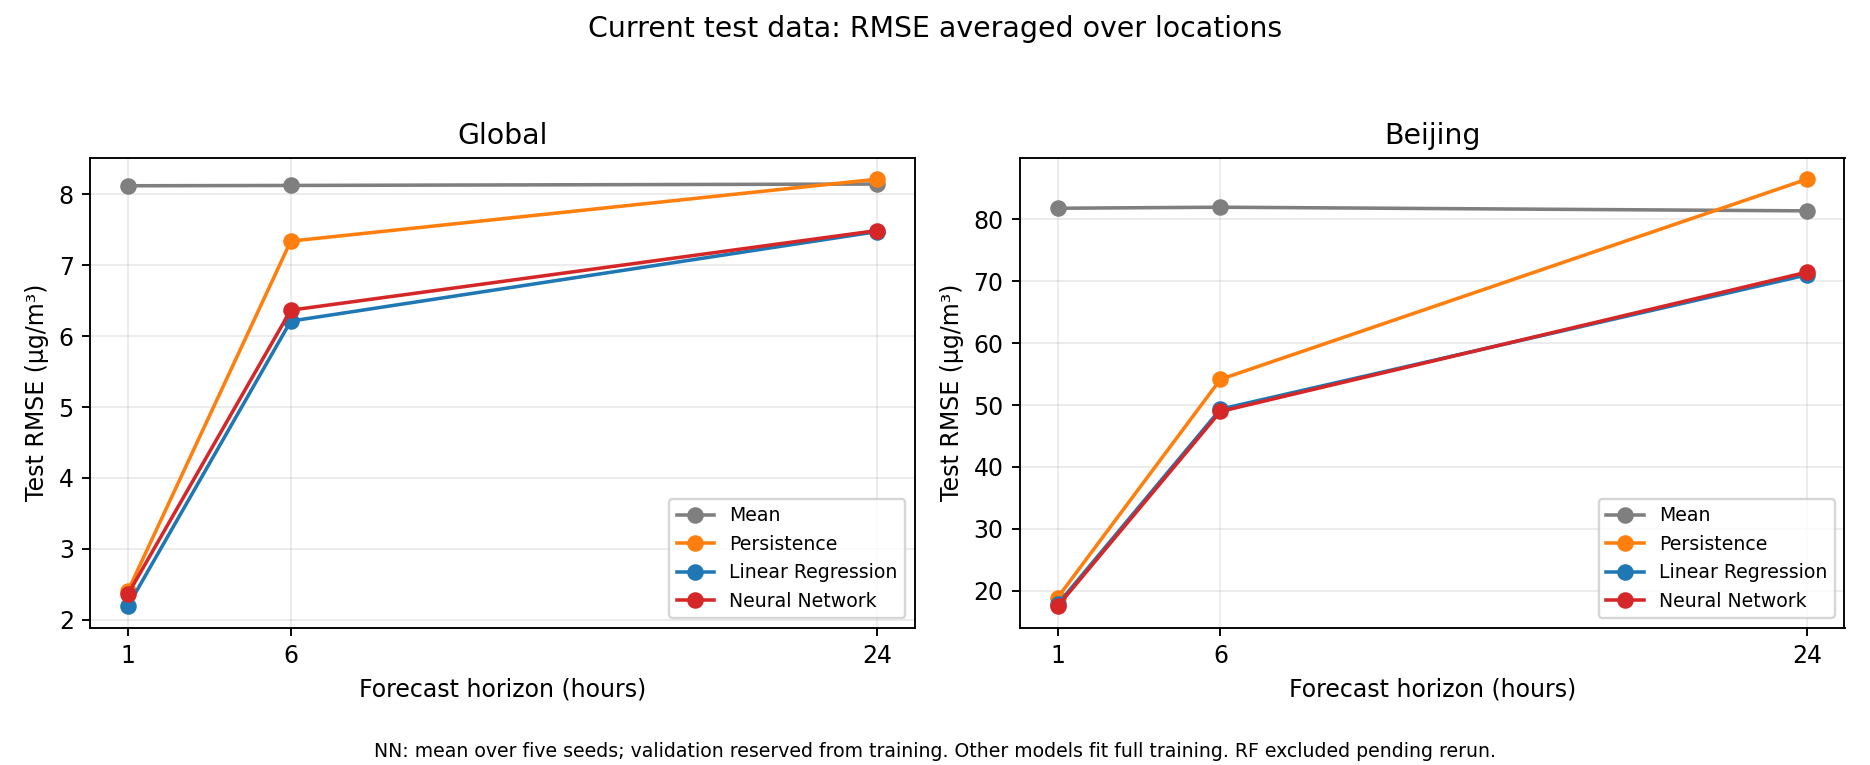
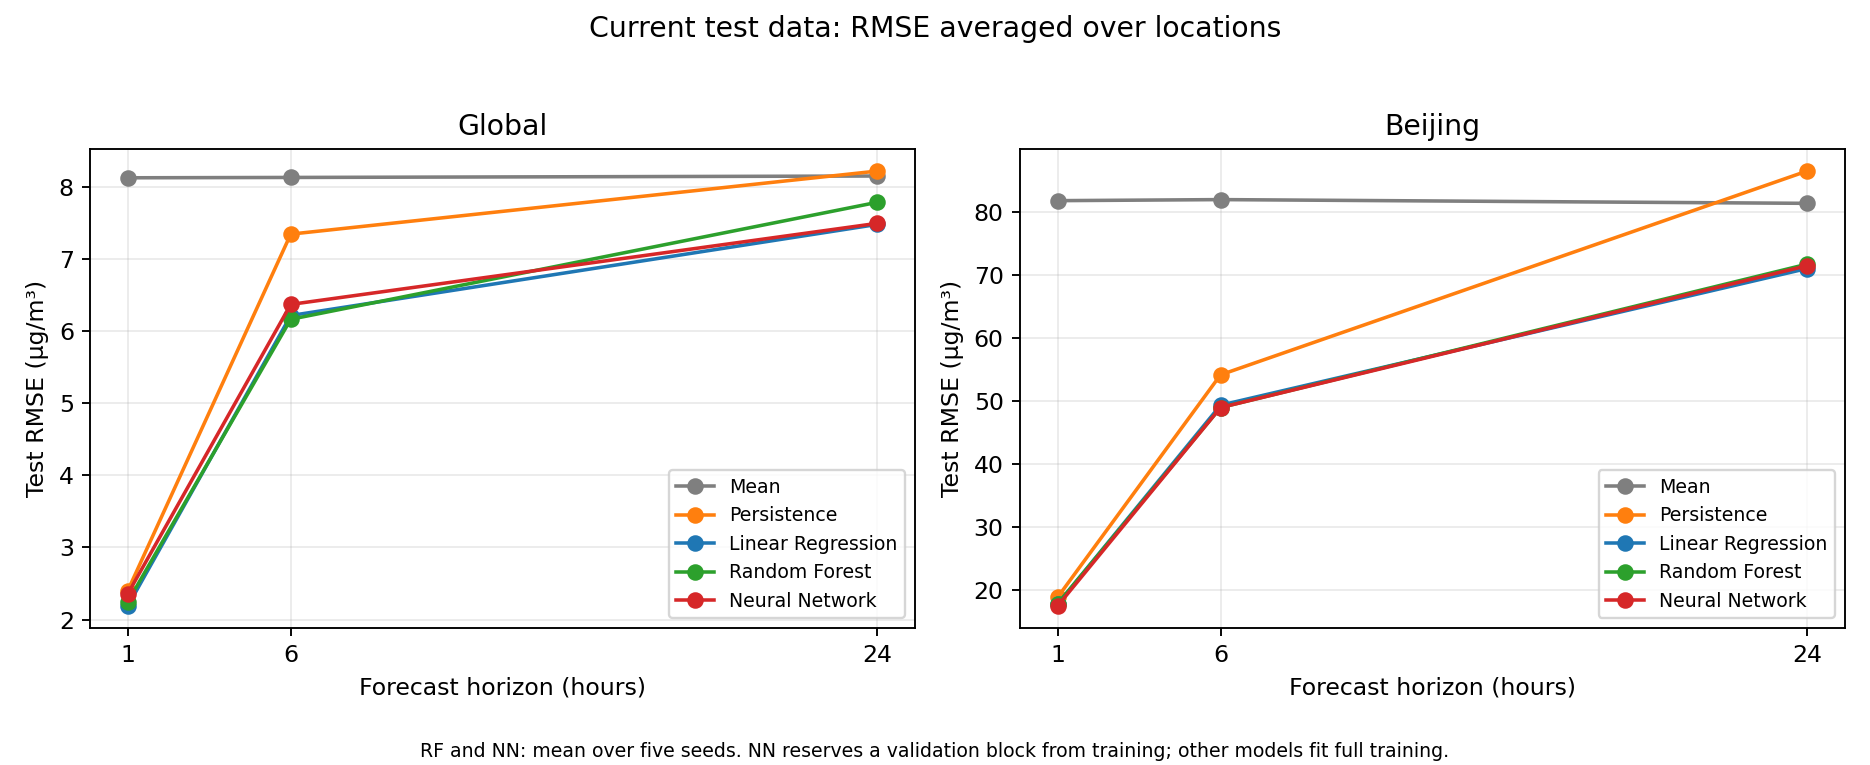
Add current RF results to integration comparison and slide notes

diff --git a/term_project/review_current_results.py b/term_project/review_current_results.py
@@ -62,7 +62,19 @@ def main():
     nn = runs.loc[runs.model == "Neural Network", simple.columns]
     assert len(nn) == 18 * 3 * 5
     assert nn.groupby(["dataset", "location", "horizon"]).seed.apply(lambda s: set(s) == set(range(5))).all()
-    combined = pd.concat([simple, nn], ignore_index=True)
+        # Random Forest comes from the rerun baseline notebook (baseline_results.csv, current data).
+    baseline = pd.read_csv(ROOT / "baseline_results.csv")
+    keys = ["dataset", "location", "horizon", "model"]
+    # Check the notebook used the same data: its deterministic LR must match the LR recomputed above.
+    lr_check = simple.loc[simple.model == "Linear Regression"].merge(
+        baseline.loc[baseline.model == "Linear Regression"], on=keys, suffixes=("", "_nb"))
+    assert len(lr_check) == 18 * 3, "baseline_results.csv is missing locations/horizons"
+    np.testing.assert_allclose(lr_check[["r2", "rmse", "mae"]].to_numpy(),
+                               lr_check[["r2_nb", "rmse_nb", "mae_nb"]].to_numpy(), rtol=1e-6, atol=1e-6)
+    rf = baseline.loc[baseline.model == "Random Forest", simple.columns]
+    assert len(rf) == 18 * 3 * 5
+    assert rf.groupby(["dataset", "location", "horizon"]).seed.apply(lambda s: set(s) == set(range(5))).all()
+    combined = pd.concat([simple, rf, nn], ignore_index=True)
     # Average seeds within locations first, then give each location equal weight.
     per_location = combined.groupby(["dataset", "location", "horizon", "model"])[["r2", "rmse", "mae"]].mean()
     summary = per_location.groupby(["dataset", "horizon", "model"]).mean().reset_index()
@@ -74,12 +86,10 @@ def main():
     recomputed = runs.groupby(["dataset", "location", "horizon", "model"])[["r2", "rmse", "mae"]].mean().sort_index()
     saved_summary = saved_summary.set_index(["dataset", "location", "horizon", "model"]).sort_index()
     np.testing.assert_allclose(saved_summary[["r2", "rmse", "mae"]], recomputed, rtol=1e-10, atol=1e-10)
-    historical = pd.read_csv(ROOT / "baseline_results.csv")
-    historical.groupby(["dataset", "horizon", "model"])[["r2", "rmse", "mae"]].mean().to_csv(OUT / "historical_baseline_summary.csv")
     lines = ["# Current model comparison", "",
              "Current exported data; metrics averaged equally over locations after averaging NN seeds within each location. RMSE and MAE are in µg/m³; R² is dimensionless. Linear regression, mean, and persistence were recalculated. NN scores are the saved per-seed results; their summary aggregation, targets, and baseline predictions were checked. The NN was not retrained.", "",
              "NN uses a chronological validation block and trains on the preceding portion; the baselines fit the full exported training period. The test observations match, but training budgets differ. The saved NN prediction file averages five seed predictions; its ensemble metrics are exported separately and must not be confused with mean per-seed scores.", "",
-             "The original `baseline_results.csv` and `nn_nolag` outputs describe the earlier data version. Their Beijing test row counts differ from the current NN run, so the old Random Forest scores are excluded from this table. Rerun the baseline notebook for a current Random Forest comparison.", "",
+             "the `nn_nolag` outputs describe the earlier data version and are not part of this table.", "",             "The `nn_nolag` outputs describe the earlier data version and are not part of this table.", "",
              "| Dataset | Horizon | Model | R² | RMSE | MAE |", "|---|---:|---|---:|---:|---:|"]
     for r in summary.itertuples():
         lines.append(f"| {r.dataset} | {r.horizon}h | {r.model} | {r.r2:.3f} | {r.rmse:.3f} | {r.mae:.3f} |")
@@ -88,7 +98,8 @@ def main():
     matplotlib.use("Agg")
     import matplotlib.pyplot as plt
     colors = {"Mean": "tab:gray", "Persistence": "tab:orange",
-              "Linear Regression": "tab:blue", "Neural Network": "tab:red"}
+          "Linear Regression": "tab:blue", "Random Forest": "tab:green",
+          "Neural Network": "tab:red"}
     fig, axes = plt.subplots(1, 2, figsize=(11, 4.5))
     for ax, key in zip(axes, ["global", "beijing"]):
         for model, color in colors.items():
@@ -98,7 +109,7 @@ def main():
         ax.legend(fontsize=8)
         ax.grid(alpha=.25)
     fig.suptitle("Current test data: RMSE averaged over locations")
-    fig.text(.5, .01, "NN: mean over five seeds; validation reserved from training. Other models fit full training. RF excluded pending rerun.",
+    fig.text(.5, .01, "RF and NN: mean over five seeds. NN reserves a validation block from training; other models fit full training.",
              ha="center", fontsize=8)
     fig.tight_layout(rect=(0, .05, 1, .95))
     fig.savefig(OUT / "current_rmse_comparison.png", dpi=170)

diff --git a/term_project/results/integration/CURRENT_RESULTS.md b/term_project/results/integration/CURRENT_RESULTS.md
@@ -4,7 +4,9 @@ Current exported data; metrics averaged equally over locations after averaging N
 
 NN uses a chronological validation block and trains on the preceding portion; the baselines fit the full exported training period. The test observations match, but training budgets differ. The saved NN prediction file averages five seed predictions; its ensemble metrics are exported separately and must not be confused with mean per-seed scores.
 
-The original `baseline_results.csv` and `nn_nolag` outputs describe the earlier data version. Their Beijing test row counts differ from the current NN run, so the old Random Forest scores are excluded from this table. Rerun the baseline notebook for a current Random Forest comparison.
+the `nn_nolag` outputs describe the earlier data version and are not part of this table.
+
+The `nn_nolag` outputs describe the earlier data version and are not part of this table.
 
 | Dataset | Horizon | Model | R² | RMSE | MAE |
 |---|---:|---|---:|---:|---:|
@@ -12,23 +14,29 @@ The original `baseline_results.csv` and `nn_nolag` outputs describe the earlier 
 | beijing | 1h | Mean | -0.003 | 81.781 | 59.625 |
 | beijing | 1h | Neural Network | 0.954 | 17.500 | 9.923 |
 | beijing | 1h | Persistence | 0.946 | 18.874 | 10.047 |
+| beijing | 1h | Random Forest | 0.952 | 17.833 | 9.562 |
 | beijing | 6h | Linear Regression | 0.637 | 49.335 | 31.050 |
 | beijing | 6h | Mean | -0.003 | 81.948 | 59.560 |
 | beijing | 6h | Neural Network | 0.642 | 48.966 | 30.069 |
 | beijing | 6h | Persistence | 0.563 | 54.154 | 31.675 |
+| beijing | 6h | Random Forest | 0.643 | 48.970 | 29.368 |
 | beijing | 24h | Linear Regression | 0.234 | 71.020 | 50.429 |
 | beijing | 24h | Mean | -0.003 | 81.357 | 59.464 |
 | beijing | 24h | Neural Network | 0.225 | 71.461 | 50.076 |
 | beijing | 24h | Persistence | -0.136 | 86.476 | 57.255 |
+| beijing | 24h | Random Forest | 0.219 | 71.705 | 49.560 |
 | global | 1h | Linear Regression | 0.912 | 2.189 | 1.411 |
 | global | 1h | Mean | -0.082 | 8.122 | 6.593 |
 | global | 1h | Neural Network | 0.898 | 2.357 | 1.580 |
 | global | 1h | Persistence | 0.896 | 2.402 | 1.534 |
+| global | 1h | Random Forest | 0.912 | 2.247 | 1.406 |
 | global | 6h | Linear Regression | 0.308 | 6.213 | 4.700 |
 | global | 6h | Mean | -0.083 | 8.126 | 6.599 |
 | global | 6h | Neural Network | 0.316 | 6.367 | 4.744 |
 | global | 6h | Persistence | 0.074 | 7.341 | 5.318 |
+| global | 6h | Random Forest | 0.335 | 6.161 | 4.586 |
 | global | 24h | Linear Regression | 0.012 | 7.476 | 5.692 |
 | global | 24h | Mean | -0.087 | 8.146 | 6.617 |
 | global | 24h | Neural Network | 0.032 | 7.491 | 5.686 |
 | global | 24h | Persistence | -0.202 | 8.215 | 5.884 |
+| global | 24h | Random Forest | -0.053 | 7.782 | 6.036 |
